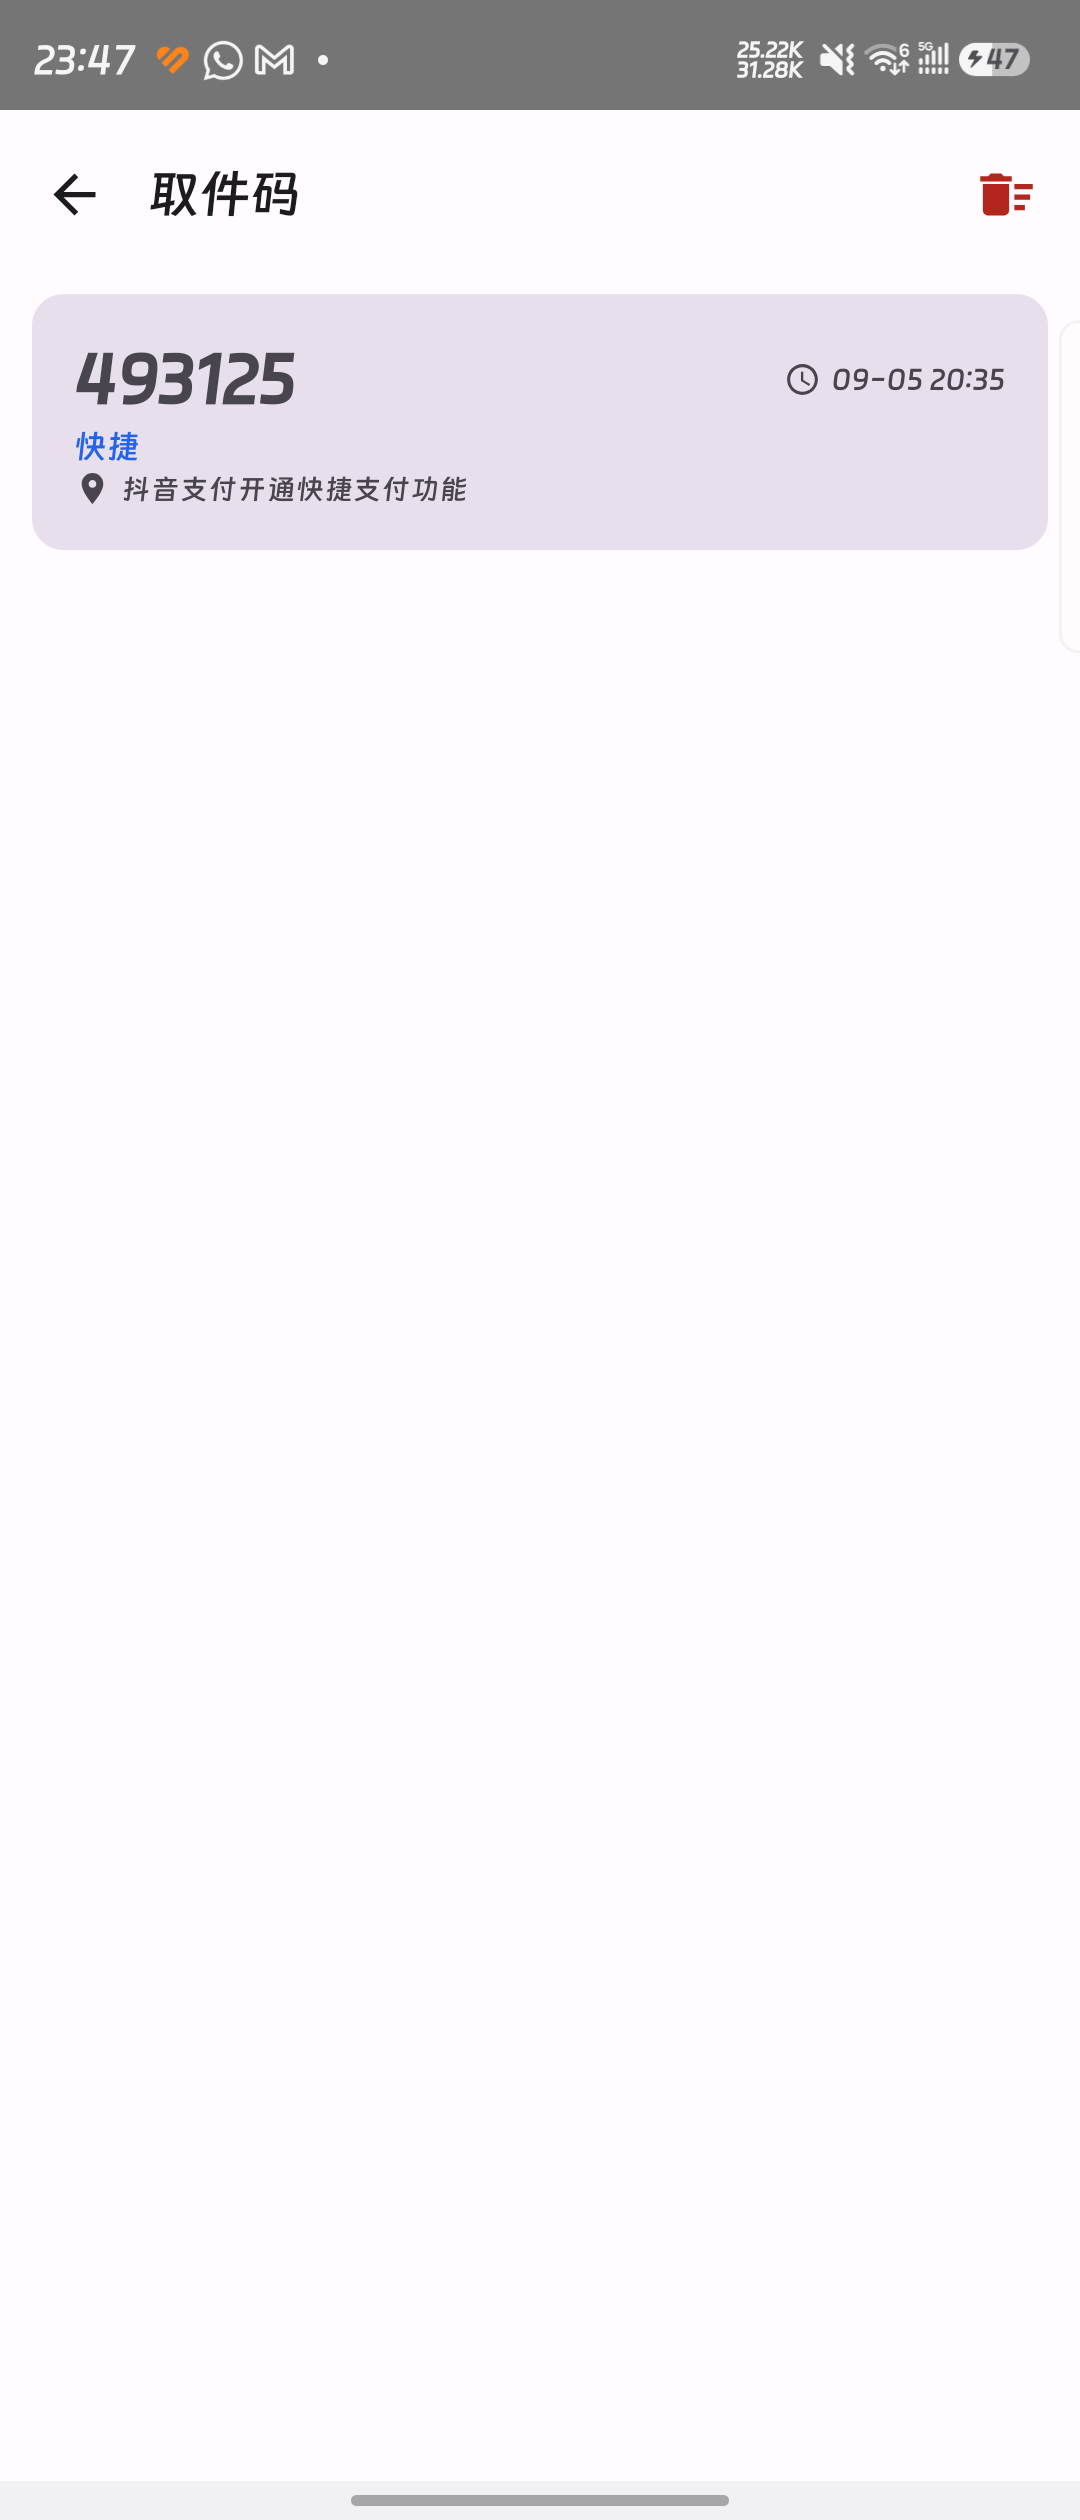
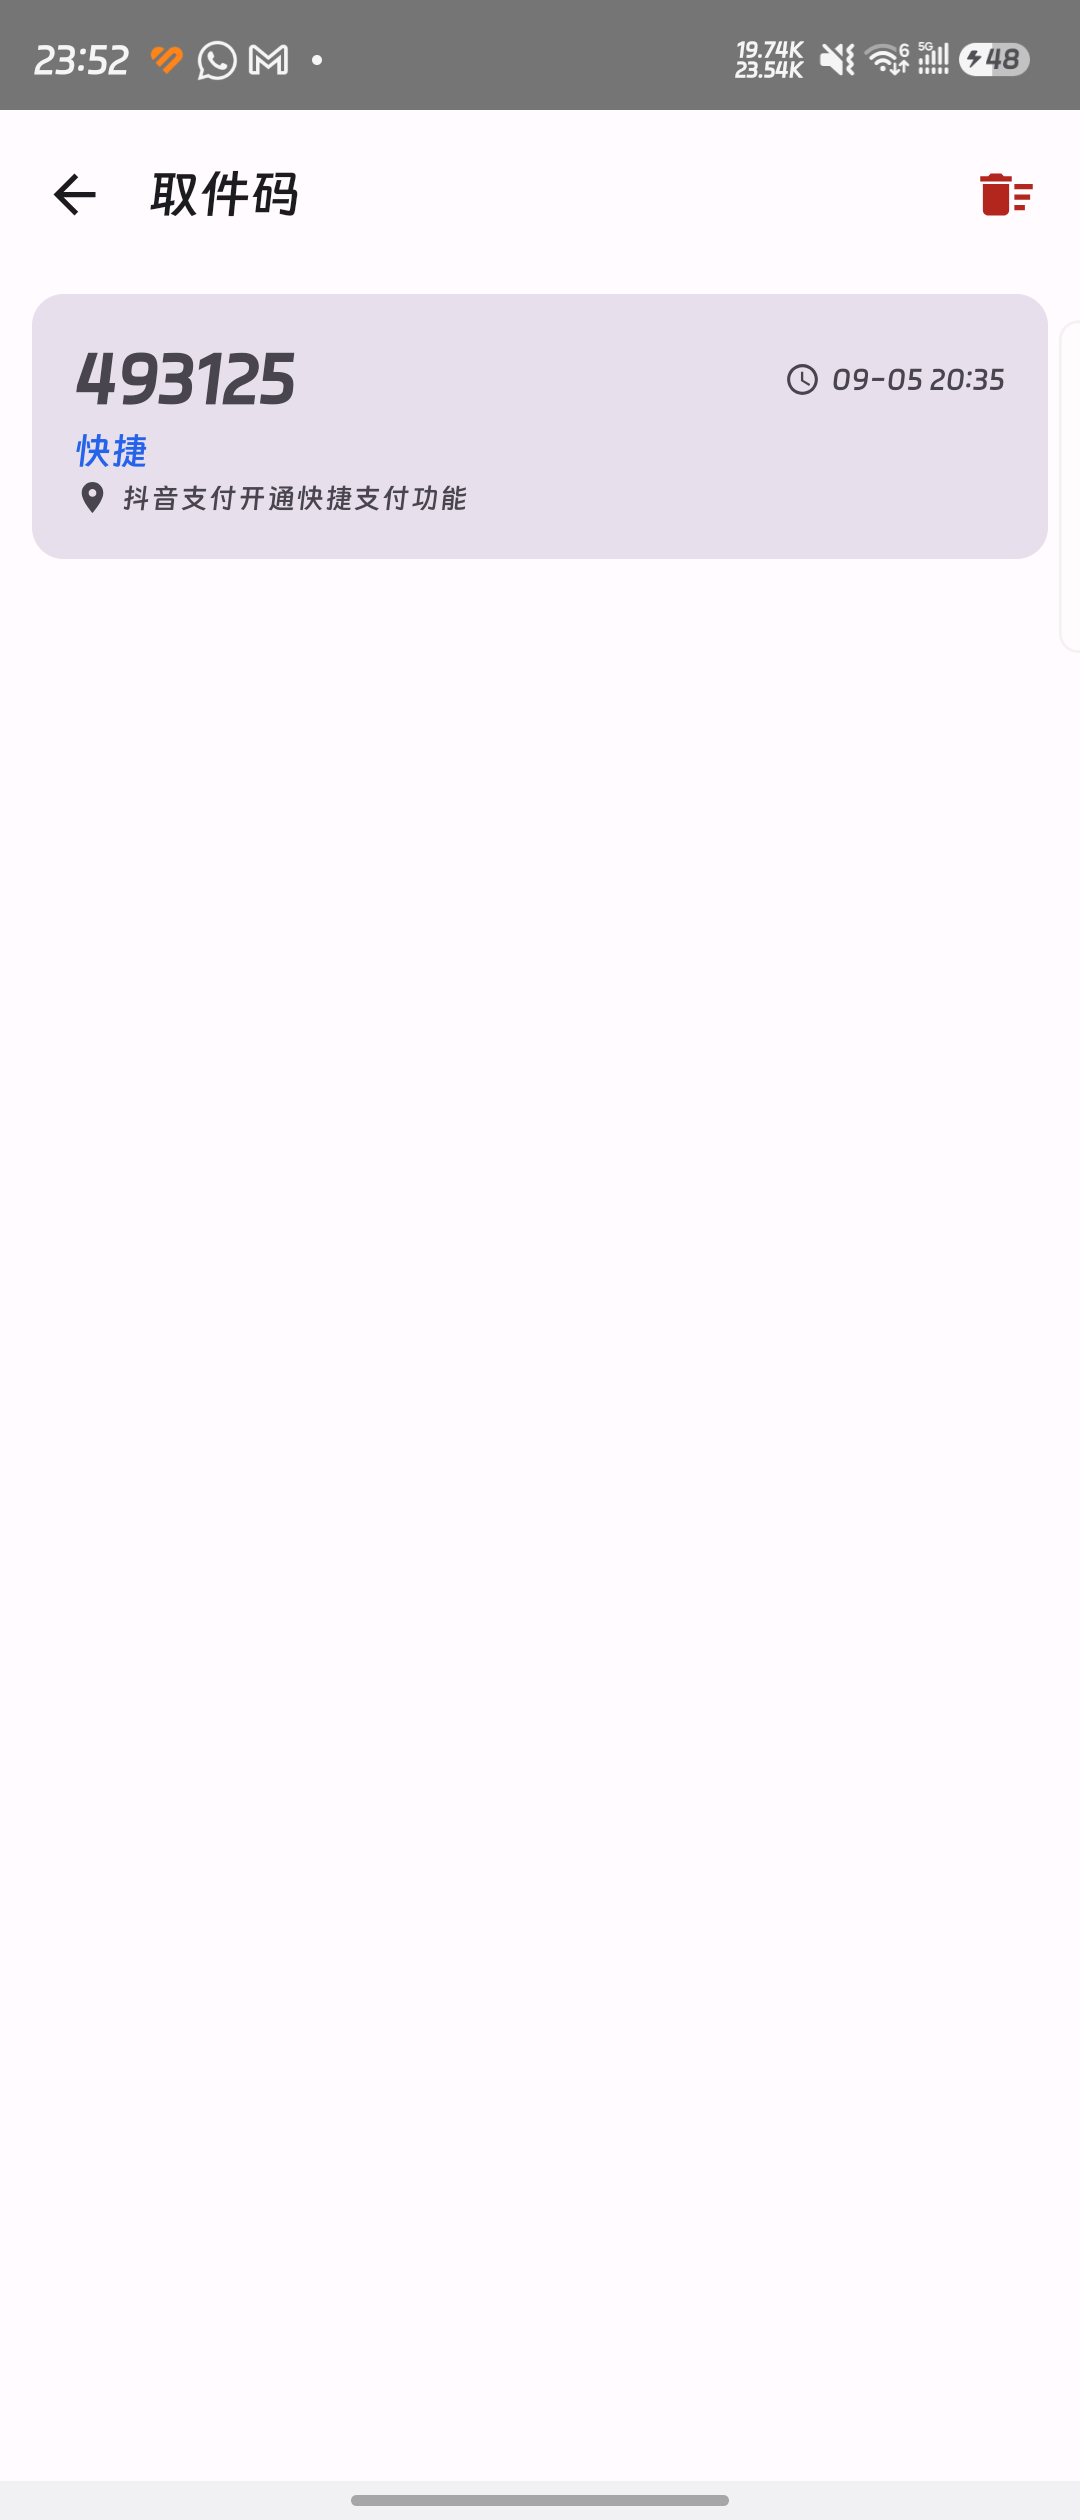
feat: 卡片公司名字号加大（v1.4）
- ParcelCard 第二行公司名 style 由 titleSmall 升到 titleMedium，一眼看清快递公司
- README 升 v1.4、更新 SHA256 与截图

diff --git a/app/src/main/java/com/example/notifycollector/ui/GroupDetailScreen.kt b/app/src/main/java/com/example/notifycollector/ui/GroupDetailScreen.kt
@@ -241,7 +241,7 @@ private fun ParcelCard(n: NotificationEntity, dim: Boolean) {
             }
             Text(
                 p.company ?: "（未知快递）",
-                style = MaterialTheme.typography.titleSmall,
+                style = MaterialTheme.typography.titleMedium,
                 color = MaterialTheme.colorScheme.primary
             )
             Row(verticalAlignment = Alignment.Top) {

diff --git a/README.md b/README.md
@@ -44,9 +44,9 @@
 
 ## 文件信息
 
-- 下载：<https://github.com/wq198155/NotifyCollector/releases> 获取最新 `NotifyCollector-1.3.apk`（已签名，可直接侧载）
+- 下载：<https://github.com/wq198155/NotifyCollector/releases> 获取最新 `NotifyCollector-1.4.apk`（已签名，可直接侧载）
 - 大小：约 11.8 MB（含钉钉进步体字体 2.1 MB）
[2 lines of base64/hex data omitted]
 - 签名：用 Android 调试密钥签名（仅供自用 / 侧载宣传，未上架）。如需正式分发请自行配置 release 签名。
 - 字体：全 App 统一使用「钉钉进步体」（单一字重 Regular）
 - 最低系统：Android 7.0（API 24）
@@ -69,6 +69,7 @@
 
 ## 版本
 
+- v1.4：卡片「快递公司名」字号加大（titleSmall → titleMedium），一眼看清是哪个快递
 - v1.3：卡片时间前加时钟图标，地点前加地点针图标；卡片之间留上下间距（移除卡片间的分隔线）
 - v1.2：卡片中「取件码」右侧新增短信收到时间（MM-dd HH:mm）
 - v1.1：取件码分组新增卡片视图（取件码 / 公司名 / 取件点三行）
